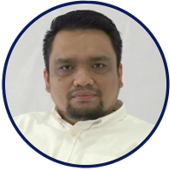
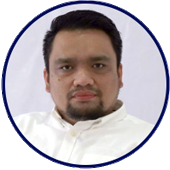
Change in profile

diff --git a/index.html b/index.html
@@ -625,7 +625,9 @@
             </div>
             -->
             <div class="xnthumbnails mb-2">
-              <img src="assets/images/snleo.png" data-html="true" title="Project Manager">
+              <img src="assets/images/snnard.png"
+                  data-html="true"
+                  title="Project Manager">
               <img src="assets/images/snyogie.png">
               <img src="assets/images/update/hendi.png">
             </div>
